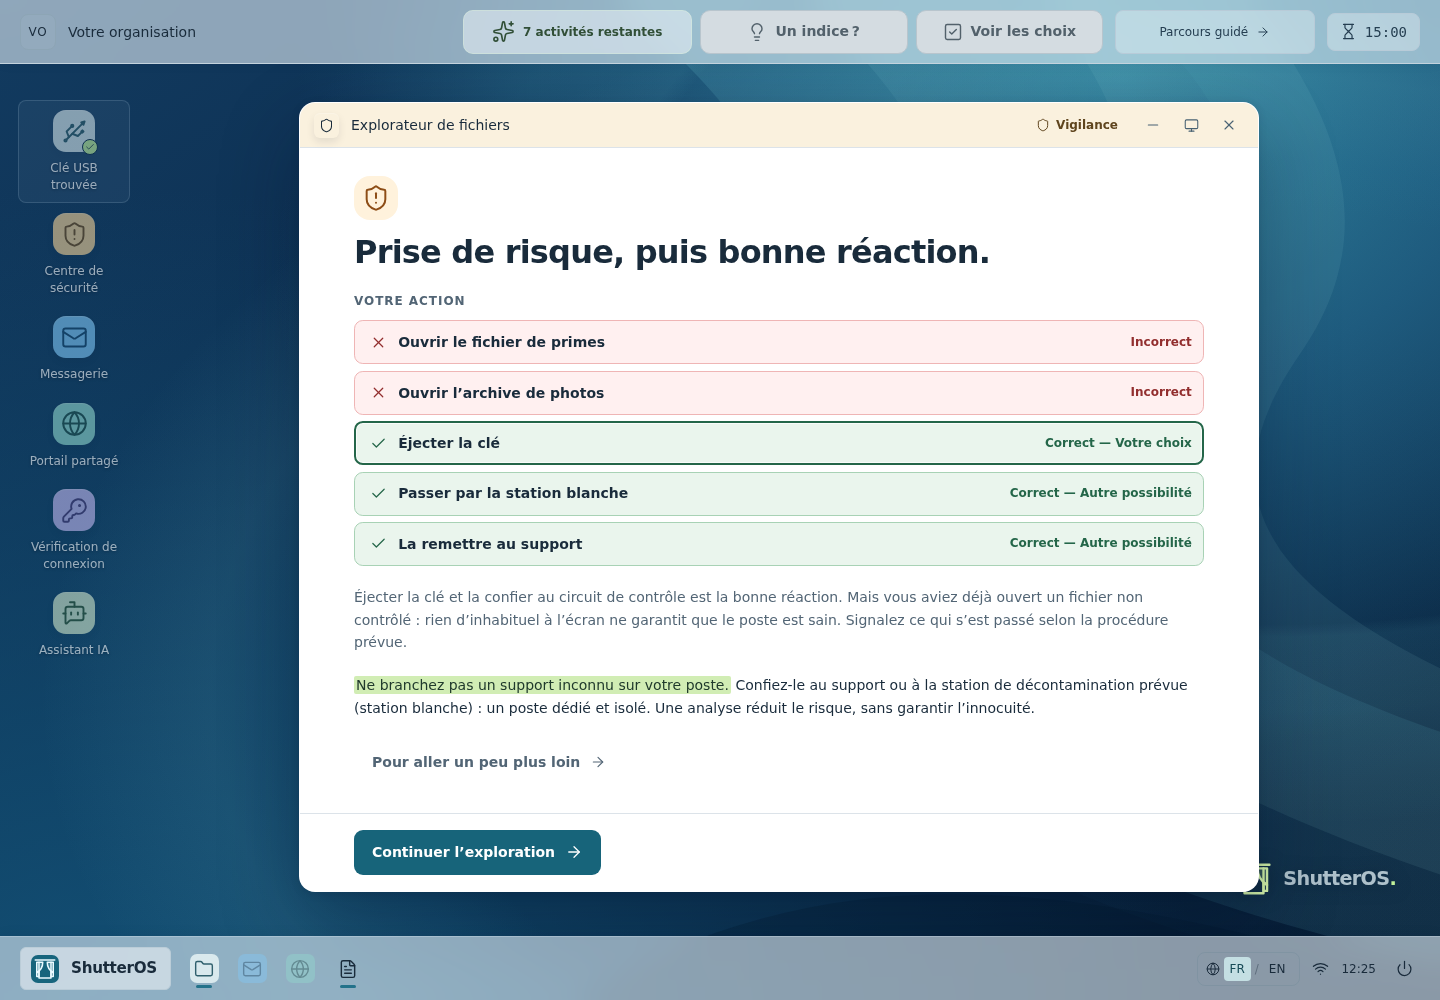
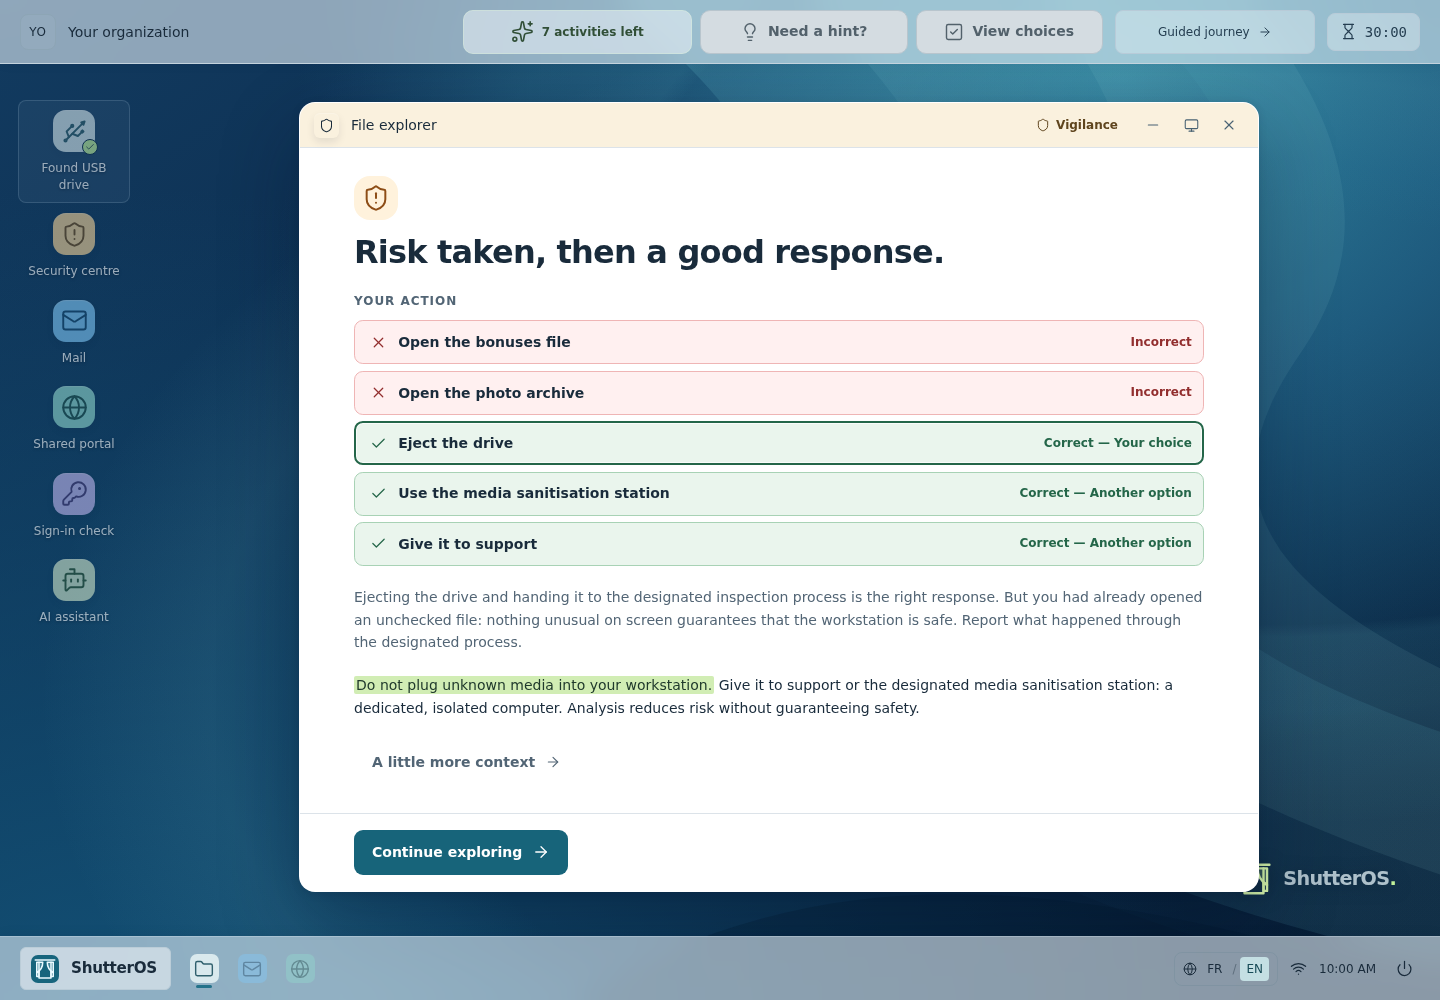
docs: refresh session guidance and screenshots

diff --git a/docs/user-guide.fr.md b/docs/user-guide.fr.md
@@ -10,16 +10,17 @@ ShutterOS est un jeu de sensibilisation à la cybersécurité sur un bureau fict
 
 En parcours libre, chaque nouvelle activité s’ouvre dans une fenêtre de taille normale, quelle que soit la taille de l’activité précédente. Afficher le QCM peut élargir la fenêtre pour garder le contenu lisible, sans la maximiser. En parcours guidé, les activités s’enchaînent ; chaque nouvelle activité s’ouvre agrandie avec le QCM visible, mais vous pouvez la restaurer. Le résultat reste agrandi ou en mode fenêtré, selon votre choix pour l’activité en cours.
 
-Le sablier indique le temps restant : quinze minutes par défaut. Il continue pendant le parcours guidé. À zéro, le jeu revient à la connexion et efface la progression.
+Le sablier laisse trente minutes par défaut pour explorer et lire les explications. Il continue pendant le parcours guidé. Vous pouvez terminer plus tôt et vous déconnecter pour passer au joueur suivant. À zéro, le jeu revient à la connexion et efface la progression.
 
 Vous pouvez rejouer les situations terminées pour essayer une autre approche. Le bilan conserve votre premier résultat ; il sert à échanger, pas à enregistrer une évaluation. Un résultat orange reconnaît une bonne réaction après une prise de risque, par exemple l’arrêt de l’exploration d’une clé après avoir ouvert le fichier texte `LISEZ-MOI.txt`.
 
-Le compteur d’activités restantes reste toujours visible à gauche des boutons d’indice et de QCM. Sur le bureau, lorsqu’aucune activité n’est affichée en exploration libre, il est activé : ouvrez-le pour consulter l’aide, puis choisissez **M’y emmener** afin d’accéder à l’activité suivante. Cette action ne révèle ni ne consomme son indice. Le parcours compte sept scénarios et une activité **Protéger mon poste**, en trois étapes : mot de passe, mises à jour et verrouillage. Ces trois gestes sont proposés avant le bilan, même sans avoir ouvert leurs notifications.
+Le compteur d’activités restantes reste toujours visible à gauche des boutons d’indice et de QCM. Sur le bureau, lorsqu’aucune activité n’est affichée en exploration libre, il est activé : ouvrez-le pour consulter l’aide, puis choisissez **M’y emmener** afin d’accéder à l’activité suivante. Cette action ne révèle ni ne consomme son indice. Le parcours compte sept scénarios et une activité **Protéger mon poste**, en trois étapes : mot de passe, mises à jour et verrouillage. Ces trois gestes doivent être essayés avant d’accéder au bilan, même sans avoir ouvert leurs notifications. La question complémentaire sur le mot de passe reste facultative.
 
-Dans le bilan, faites défiler la liste des activités ; les boutons pour reprendre ou terminer restent visibles.
+Dans le bilan, faites défiler la liste des activités ; les boutons pour reprendre ou terminer restent visibles. Si vous réduisez cette fenêtre, **Voir mon bilan maintenant** apparaît dans la barre supérieure pour la retrouver.
 
 ## Commandes utiles
 
+- **Connexion :** le mot de passe fictif est masqué pendant la saisie ; le bouton œil permet de le vérifier.
 - **Langue :** choisissez FR ou EN sur l’écran de connexion ou dans la barre des tâches.
 - **Fenêtres :** déplacez-les par leur barre de titre ; redimensionnez les fenêtres principales par leurs bords ou leurs coins. Agrandissez-les pour couvrir le bureau. Réduisez-les puis retrouvez-les dans la barre des tâches sans perdre votre place. Le fichier texte de la clé et les indices ont leurs propres fenêtres déplaçables ; **Masquer l’indice** replie sa fenêtre et ses repères visuels ; **Revoir l’indice** permet de relire l’indice.
 - **Clavier :** Tab passe d’une commande à l’autre ; Entrée ou Espace active les boutons. Le son n’est pas nécessaire.

diff --git a/docs/content.md b/docs/content.md
@@ -52,13 +52,13 @@ The three-step workstation-protection activity reinforces password handling, com
 
 ### Teaching and facilitation
 
-The guided ending targets three to five minutes: observe a cue, choose an action, see the simulated consequence, and read one practical takeaway; the session deadline still applies (fifteen minutes by default, configurable before deployment). Optional two-choice microchecks are integrated into the current lesson after the password routine (My account or guided routines) and after incident/MFA feedback. The login lesson contains no quiz. Microchecks are skippable and do not alter the primary score. Offer plausible choices, explain the consequence in about one sentence, and let participants replay situations to try different choices. Microcheck answers are retained for the current session.
+The guided ending targets three to five minutes: observe a cue, choose an action, see the simulated consequence, and read one practical takeaway; the session deadline still applies (thirty minutes by default, configurable before deployment). Optional two-choice microchecks are integrated into the current lesson after the password routine (My account or guided routines) and after incident/MFA feedback. The login lesson contains no quiz. Microchecks are skippable and do not alter the primary score. Offer plausible choices, explain the consequence in about one sentence, and let participants replay situations to try different choices. Microcheck answers are retained for the current session.
 
 Use supportive language: reporting a click or an approval quickly is a protective action, not a failure. The game is a local simulator. The mailbox contains fixed fictional messages; it does not send mail or demonstrate a real spoofing technique.
 
 ## Editorial rules
 
-Target first-time awareness: decisions must follow visible clues, not knowledge of acronyms or security protocols. Introduce an unfamiliar action through a concrete example; keep technical references in these notes. Optional hints prompt reflection and sometimes point to contextual information or controls. Feedback must describe the action actually taken. The seven scenarios use the same first-attempt assessment. A separate workstation-protection activity records three completed steps (password, updates and locking), without adding them to the scenario score. Direct controls and guided choices share the same action definitions and feedback, with the selected option identified in text as well as colour.
+Target first-time awareness: decisions must follow visible clues, not knowledge of acronyms or security protocols. Introduce an unfamiliar action through a concrete example; keep technical references in these notes. Optional hints prompt reflection and sometimes point to contextual information or controls. Feedback must describe the action actually taken. Correct choices occupy different positions across activities; each activity keeps a stable order, including when switching languages. The seven scenarios use the same first-attempt assessment. A separate workstation-protection activity records three completed steps (password, updates and locking), without adding them to the scenario score. Direct controls and guided choices share the same action definitions and feedback, with the selected option identified in text as well as colour.
 
 Keep claims specific and proportionate. Do not imply that a media sanitisation station, a padlock icon, a signature, MFA, or a single visual signal guarantees safety. Familiar desktop conventions are acceptable; use original artwork and fictional service identities. Do not add real brands, real login forms, executable files, tracking, external embeds, or network-backed demonstrations.
 

diff --git a/docs/user-guide.md b/docs/user-guide.md
@@ -10,16 +10,17 @@ ShutterOS is a cybersecurity awareness game on a fictional desktop. Allow five t
 
 In free exploration, each new activity opens in a normal window, regardless of the size of the previous activity. Opening the questionnaire may widen the window to keep both panes readable, without maximizing it. In guided mode, activities follow one another; each new activity opens maximized with the questionnaire visible, but you can restore it. The result keeps the current activity maximized or restored as you chose.
 
-The hourglass shows the time left in the session: fifteen minutes by default. It keeps running during the guided finish. At zero, the game returns to the login screen and clears your progress.
+The hourglass allows thirty minutes by default to explore and read the explanations. It keeps running during the guided journey. You can finish earlier and sign out for the next player. At zero, the game returns to the login screen and clears your progress.
 
 You can replay completed situations to try another approach. The recap keeps your first result; it is for discussion, not a saved assessment. An amber result recognises a good response after taking a risk, such as stopping exploration of a USB drive after opening the `READ-ME.txt` text file.
 
-The remaining-activity counter is always visible to the left of the hint and questionnaire buttons. On the desktop, when no activity is displayed during free exploration, it is enabled: open it to read the help dialog, then select **Take me there** to reach the next activity. This action neither reveals nor consumes its hint. The journey includes seven scenarios and one **Protect my workstation** activity with three steps: password, updates and locking. These steps are offered before the recap, even if their notifications were never opened.
+The remaining-activity counter is always visible to the left of the hint and questionnaire buttons. On the desktop, when no activity is displayed during free exploration, it is enabled: open it to read the help dialog, then select **Take me there** to reach the next activity. This action neither reveals nor consumes its hint. The journey includes seven scenarios and one **Protect my workstation** activity with three steps: password, updates and locking. Complete all three steps to access the recap, even if their notifications were never opened. The extra password question remains optional.
 
-In the recap, scroll the activity list; the buttons to resume or leave remain visible.
+In the recap, scroll the activity list; the buttons to resume or leave remain visible. If you minimise this window, **View my recap now** appears in the top bar to restore it.
 
 ## Useful controls
 
+- **Login:** the fictional password is masked while you type; use the eye button to check it.
 - **Language:** choose FR or EN on the login screen or taskbar.
 - **Windows:** drag the title bar to move one, or any edge or corner to resize a main window. Maximise to cover the desktop. Minimise and restore from the taskbar without losing your place. The USB text file and hints have their own movable windows; **Hide hint** minimises the hint and hides its visual cues; **Show hint again** lets you read the hint again.
 - **Keyboard:** Tab moves between controls; Enter or Space activates buttons. Sound is not required.

diff --git a/docs/kiosk.md b/docs/kiosk.md
@@ -33,7 +33,7 @@ Use this artifact where a single local file is preferable. Because the configura
 
 ## Configuration
 
-`static/kiosk-config.json` uses version 1. It sets the fictional accepted passwords, global session duration, organisation labels, optional local organisation-logo filename, security contact details, and fictional mail addresses used in the simulation. `mailLegitimateAddress` is the familiar sender of the unusual request; `mailImpersonatorAddress` is the suspicious sender of the ordinary request. The global session duration defaults to fifteen minutes.
+`static/kiosk-config.json` uses version 1. It sets the fictional accepted passwords, global session duration, organisation labels, optional local organisation-logo filename, security contact details, and fictional mail addresses used in the simulation. `mailLegitimateAddress` is the familiar sender of the unusual request; `mailImpersonatorAddress` is the suspicious sender of the ordinary request. The global session duration defaults to thirty minutes.
 
 `supportLabel` and `supportContact` identify the organisation’s security reporting channel. Configure that direct contact; the general help desk can be a fallback if your procedure requires it. Routine workstation maintenance remains an IT responsibility.
 

diff --git a/README.md b/README.md
@@ -13,7 +13,7 @@ passwords, updates and screen locking before the recap.
 
 [**Play the live demo**](https://fcabouat.github.io/shutteros-playground/demo/?lang=en) · [Jouer en français](https://fcabouat.github.io/shutteros-playground/demo/?lang=fr)
 
-Use it in a reception area, a team workshop or a Cybersecurity Month event. Add your organisation’s identity, configure the session length, and let the kiosk reset for the next player. Players can explore freely, ask for a hint before opening the choices, or follow a guided route through the remaining activities.
+Use it in a reception area, a team workshop or a Cybersecurity Month event. Add your organisation’s identity, configure the session length (30 minutes by default), and let the kiosk reset for the next player. Players can explore freely, ask for a hint before opening the choices, or follow a guided route through the remaining activities.
 The experience is local and fictional: it has no backend, account system,
 telemetry, persistence, external API, or real authentication. Game phrases,
 messages, addresses, files, and forms stay in the current session and are never
